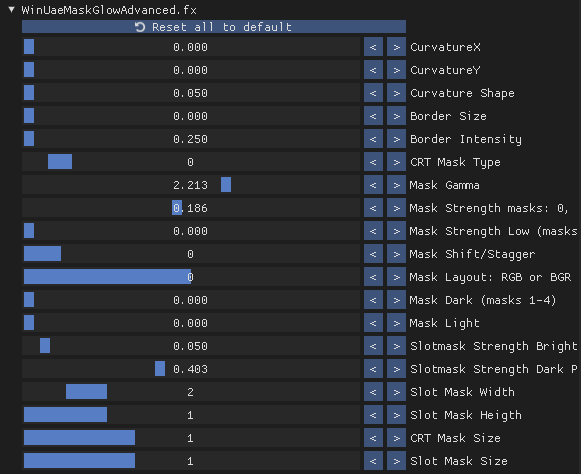
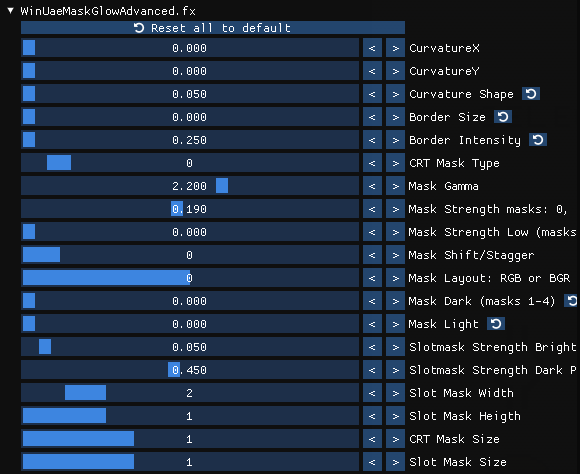
blog: Amiga shader article updates

diff --git a/blog/content/posts/achieving-period-correct-graphics-in-personal-computer-emulators-part-1-amiga/index.md b/blog/content/posts/achieving-period-correct-graphics-in-personal-computer-emulators-part-1-amiga/index.md
@@ -1517,31 +1517,33 @@ profile emulation _after_ it, as the last filter in the chain. Therefore, I
 duplicated **WinUaeColor** under the name **WinUaeColorProfile**, and our
 final ReShade filter chain will look like this:
 
-* WinUaeColor _(monitor controls only)_
-* WinUaeMask
-* WinUaeColorProfile _(Philips colour profile only)_
+* MonitorControls _(monitor controls only)_
+* WinUaeColor _(Philips CRT colour profile only)_
+* WinUaeMaskGlowAdvanced _(mask and glow only)_
 {class="compact"}
 
-Once you've set up everything correctly, just enable **WinUaeColor.fx** and
-set it up as shown below. **Colour Temperature** should stay at zero, and I
-like to bump up the **Color Saturation** a little so it resembles the
-vividness of the Commodore 1084S a bit more. A value around 1.100 should do the
-trick. You might not need (or want) to boost the saturation on wide-gamut
-displays, though.
+Once you've set up everything correctly, enable **MonitorControls.fx** and
+set it up as shown below.
 
-Similarly, I like to increase the **Color Contrast** to about 0.400 as well as
-my default setting. Some games look quite nice with the contrast cranked up
-almost to the max, while some look completely fine at near zero---just like
-on real hardware.
+Everything should be left at their default values, except for **Color
+Contrast** which I like to set to about 0.300 as my default setting. You can
+adjust it to taste later but this is a good starting point. Some
+games look quite nice with the contrast cranked up almost to the max, while
+some look completely fine at near zero---just like on real hardware.
 
-The almost homeopathic **Color Brightness** boost of 1.023 helps regain some
-of the brightness lost by the scanline emulation, and interestingly it also
-helps reduce moire artifacts at non-integer scaling ratios (or perhaps it's
-all in my head...)
+**Colour Temperature** should always stay at zero. You can bump up **Color
+Saturation** a little bit if you want, but try to be gentle as it's very easy
+to overdo it. Generally, try not to go above 1.100.
 
-<img src="img/winuaecolor.png" alt="WinUaeColor filter settings" width="auto">
+Later on, you might want to increase **Color Brightness** to compensate for
+the brighness loss introduced by the CRT shaders, but
+that will inevitably lead to some loss of detail in the highlights. It's much
+better to increase the contrast on you monitor instead, but more on this
+later.
 
-The next thing is to enable **WinUaeColorProfile.fx** as the second filter in
+<img src="img/monitorcontrols.png" alt="MonitorControls filter settings" width="auto">
+
+The next thing is to enable **WinUaeColor.fx** as the second filter in
 the chain. **Color Profile 4** is the Philips, most people
 should leave **Color Space** at 0 (sRGB), but if you're the lucky owner of a
 wide-gamut display, then you should definitely set it to match your display's
@@ -1550,7 +1552,7 @@ the instructions). Leave all the other controls at their default neutral
 settings---as I explained, we're using this second instance only for
 emulating the monitor's colour profile.
 
-<img src="img/winuaecolorprofile.png" alt="WinUaeColorProfile filter settings" width="auto">
+<img src="img/winuaecolor.png" alt="WinUaeColor filter settings" width="auto">
 
 As expected, the right half of the below example image with the Philips colour
 profile applied looks much warmer and cosier. Now we're cooking on gas! ---
@@ -1647,7 +1649,7 @@ hours of shader tweaking, and if you're going to modify them, be aware that
 *all settings* interact with each other, including the settings of the CRT
 emulation shader, so you need a holistic view when tweaking these things.
 
-<img src="img/winuaemask.png" alt="WinUaeMaskGlowAdvaned filter settings (phosphor and shadow mask)" width="auto">
+<img src="img/winuaemask.png" alt="WinUaeMaskGlowAdvanced filter settings (phosphor and shadow mask)" width="auto">
 
 
 And this is a before/after comparison on a blown-up PAL image. Doesn't seem
@@ -1711,7 +1713,7 @@ holds true for these as well: turning them on might not seem overly impressive
 at first (if you're impressed, rest assured you've overdone it!), but when you
 turn them off later, you'll probably miss the effect.
 
-<img src="img/winuaemaskglow.png" alt="WinUaeMaskGlowAdvaned filter settings (bloom and glow)" width="auto">
+<img src="img/winuaemaskglow.png" alt="WinUaeMaskGlowAdvanced filter settings (bloom and glow)" width="auto">
 
 And now the mandatory before/after comparison image:
 
